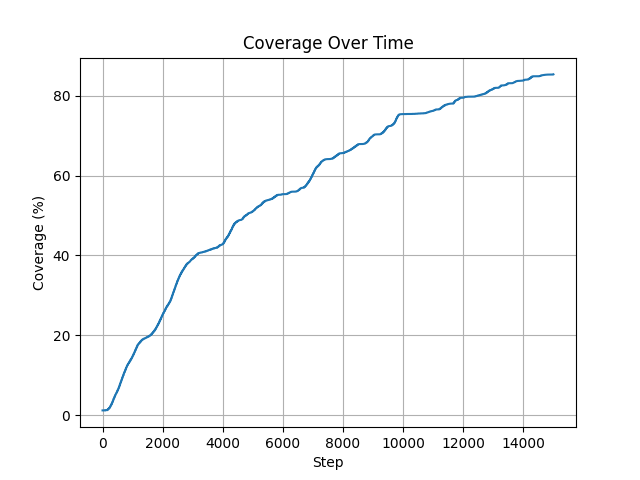
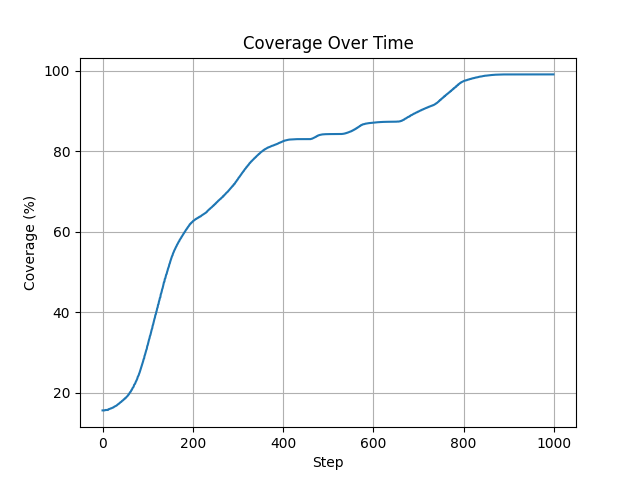
did readme for my v3 changes so far

diff --git a/controllers/shared/shared_constants.py b/controllers/shared/shared_constants.py
@@ -3,11 +3,12 @@
 # Define a shared seed so changes can be compared
 SEED = 1738
 
-SENSOR_RADIUS_CELLS = 30
 MAX_STEPS = 15000
 HEIGHT_DESIRED = 2.0
 
+SENSOR_RADIUS_METERS = 30
 
+# in meters from center
 WORLD_X_MIN = -100.0
 WORLD_X_MAX = 100.0
 WORLD_Y_MIN = -100.0
@@ -15,3 +16,7 @@ WORLD_Y_MAX = 100.0
 
 GRID_ROWS = 200
 GRID_COLS = 200
+
+CELLS_PER_METER = min((GRID_ROWS / (WORLD_Y_MAX - WORLD_Y_MIN)), (GRID_COLS / (WORLD_X_MAX - WORLD_X_MIN)))
+
+SENSOR_RADIUS_CELLS = int(SENSOR_RADIUS_METERS * CELLS_PER_METER)

diff --git a/README.md b/README.md
@@ -1,13 +1,42 @@
 # Current WEBOT setup
 
+*All tests so far have been done with 4 drones
+**For reference, each step is 32ms, so 15k steps is 8 minutes of flight.
+
+## v3
+Travis - 04/16/2026
+
+Including the changes that Caleb did for v2, I created seperate python files to hold constants to more easily test changes.
+
+Notice some missing things that the paper did that I didn't, that significantly increased performance (I forgot to add a supervisor step size).
+
+Before I go any further, note that v2 results are no longer comparable, as I changed the radius of what is considered "covered" when passed by a drone.
+So dont try to compare coverage between the two too hard.
+
+Now I am able to run on much larger areas in a reasonable amount of time. I did a 200m by 200m area with grid size of 200x200, 
+using 15,000 steps, and a sensor radius of 30m (i think thats reasonable?), and it was able to do a beautiful 99% coverage. 
+I redid it with another seed and it did nearly the same (96%). Not sure if this is just because 15k  steps is overkill for an area of this size, but 
+I've attached the graphs below. As you can see, while the paths aren't pretty, the drones do a wonderful job of staying 
+in the area, either curving to avoid going out of bounds, or clearly turning around just off map. I see this as about as good as you get for
+staying in the area, but the pathing might leave a little to be desired.
+
+Although I will say being able to coverage the 200m by 200m area in 8 minutes is pretty good I think.
+
+Also to note, my max speedup is ~8x now. The biggest contributor is obviously the `SUPERVISOR_STEP_SIZE`, and the higher the better,
+but I think 15 is a good spot for it, and the paper has similar.
+
+<img src="pics/v3/coverage.png" alt="coverage graph" width="800"/>
+
+<img src="pics/v3/paths.png" alt="drone paths" width="800"/>
+
 ## v2
 Travis - 04/12/26 (later in the night after v1)
 
 Ok so I made some changes to make my code more like the paper, while still being able to function somewhat correctly, but the 
-code still needs to be improved. At current setup, max time multiplier is 2.6x, for the tiny 30x30 area, with 87.34% coverage.
+code still needs to be improved. At current setup, max time multiplier is ~2.6x, for the tiny 30m by 30m area, 100x100 grid, sensor range of 20 cells (so like 6m), with 87.34% coverage.
 
 Right now (and in v1 if i forgot to mention), instead of doing the full area (700m by 700m), I am testing in a ~30m by 30m area, 
-and the drones are only flying at a max speed of 1m/s. This is because the drones have a tendency to lose control and crash if they are 
+and the drones are only flying at a max speed of 1m/s (edit: paper also has max speed of 1m/s). This is because the drones have a tendency to lose control and crash if they are 
 flying too fast or try to rapidly change directions due to pheromones, and I haven't been able to find a good way to fix that yet.
 
 For the size of the area, this is because if I do too large of an area while keeping the grid size the same (100x100) then each grid becomes 
@@ -33,9 +62,9 @@ get others like red which does a lap around the area then starts going randomly.
 
 Also, while the lines do go straight off, in the sim the drones do turn around very quickly after leaving the operating area.
 
-<img src="pics/coverage.png" alt="coverage graph" width="800"/>
+<img src="pics/v2/coverage.png" alt="coverage graph" width="800"/>
 
-<img src="pics/paths.png" alt="drone paths" width="800"/>
+<img src="pics/v2/paths.png" alt="drone paths" width="800"/>
 
 
 ## v1
@@ -49,6 +78,7 @@ But the actual code is a kind of pain in the ass because you need to watch out f
 to avoid having them lose control and flip / crash. The drones came with a python file to do PID control on them, but still isn't perfect.
 
 I tried to alter how my code works to follow the paper more accurately and the code actually performed worse, so for now this folder is the best i've done.
+
 
 The python scripts can be found in `controllers/` with `iaca_drone/iaca_drone.py` to control individual drones and `iaca_supervisor/iaca_supervisor.py` the main supervisor script. 
 